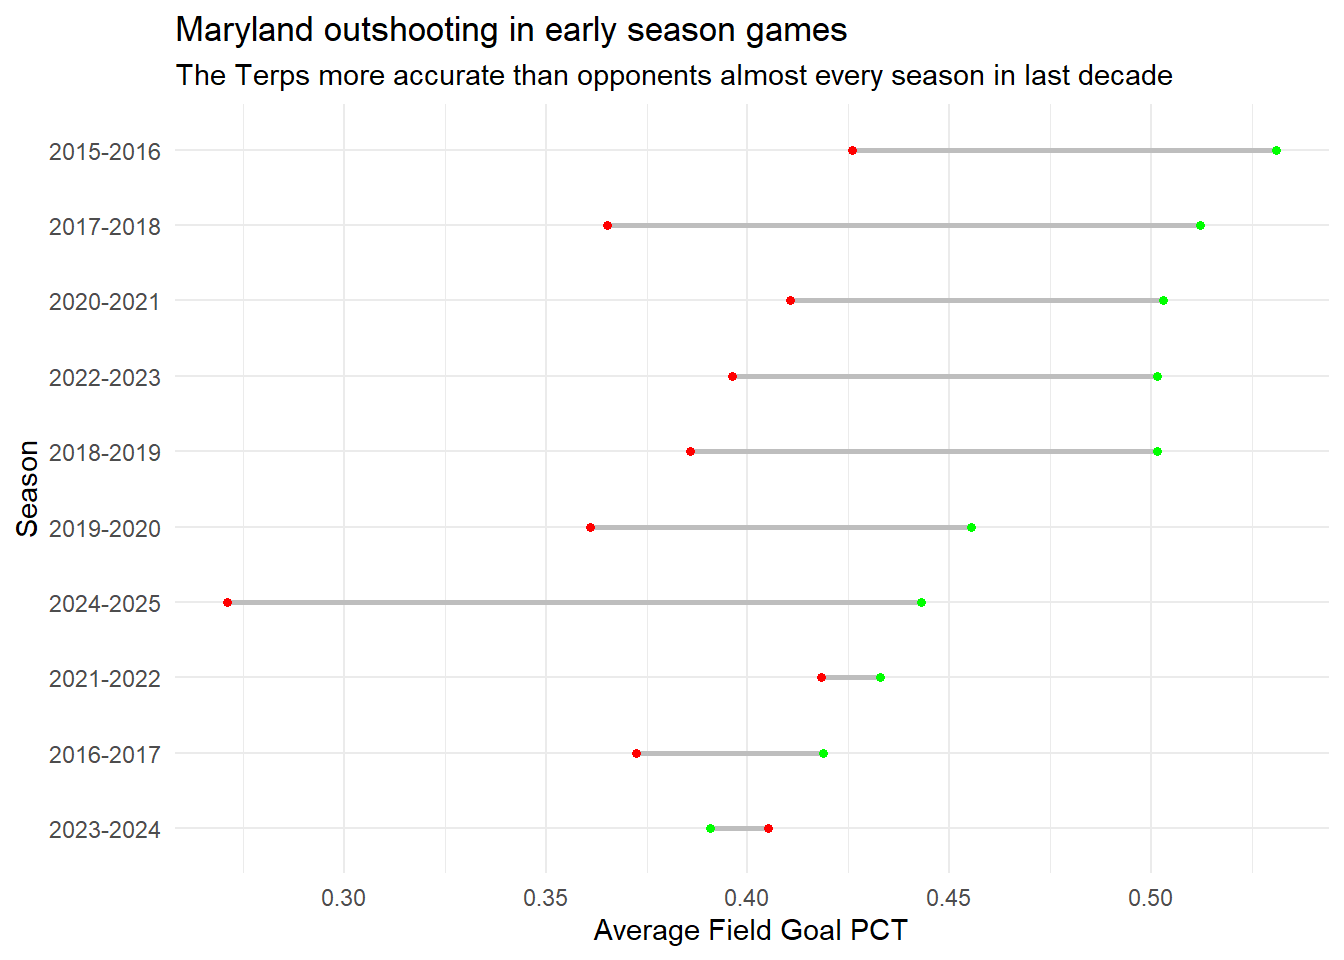
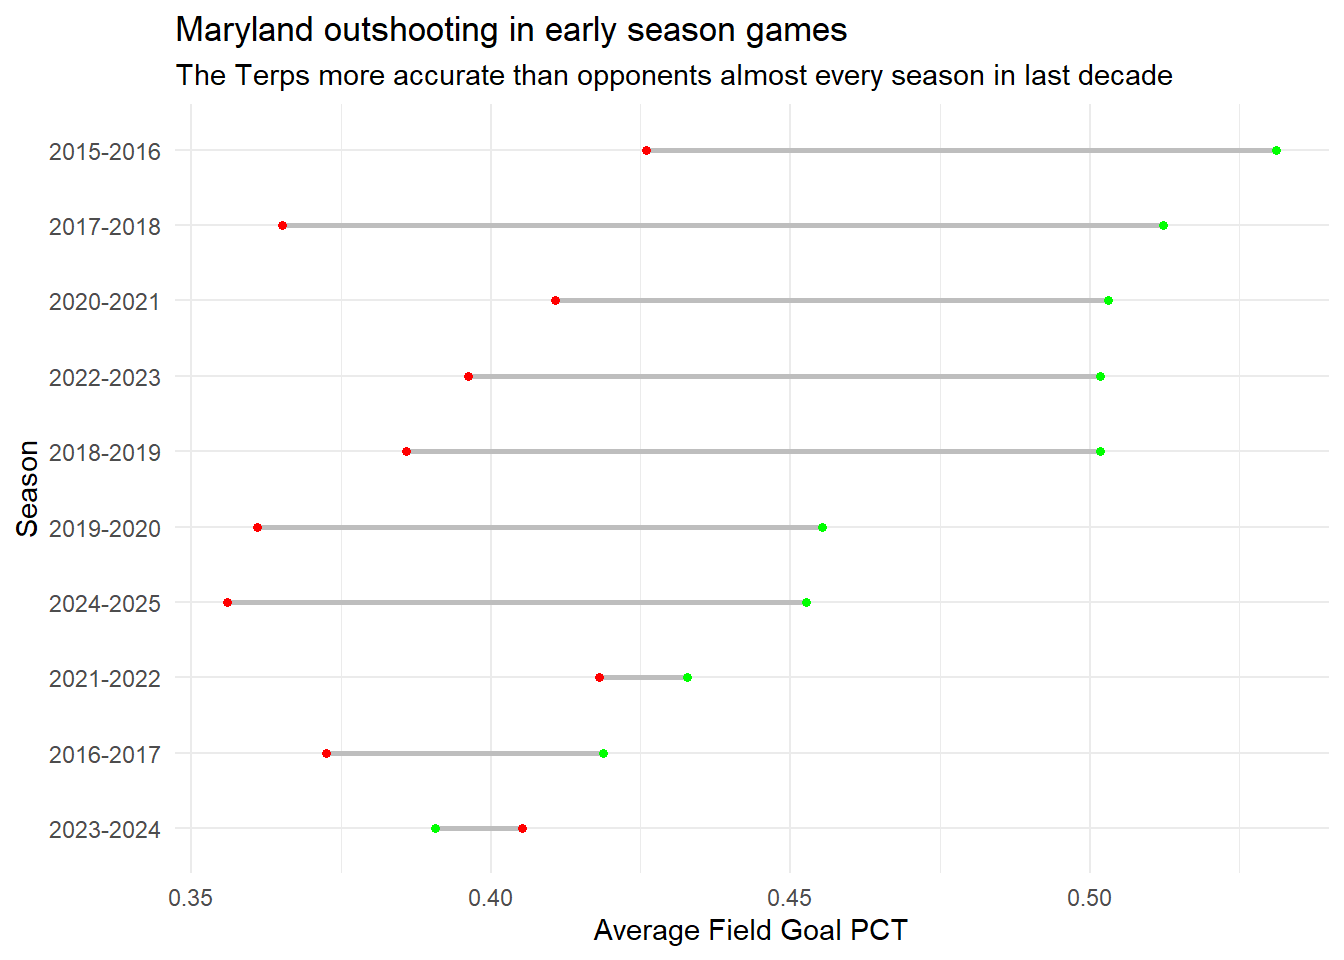
update blog

diff --git a/docs/posts/early-basketball-season/index.html b/docs/posts/early-basketball-season/index.html
@@ -7,7 +7,7 @@
 <meta name="viewport" content="width=device-width, initial-scale=1.0, user-scalable=yes">
 
 <meta name="author" content="Marwa Barakat">
-<meta name="dcterms.date" content="2024-11-08">
+<meta name="dcterms.date" content="2024-11-12">
 
 <title>How does the Terps season opener compare to previous seasons? – Marwa’s Sports Data Blog</title>
 <style>
@@ -166,7 +166,7 @@ pre > code.sourceCode > span > a:first-child::before { text-decoration: underlin
       <div>
       <div class="quarto-title-meta-heading">Published</div>
       <div class="quarto-title-meta-contents">
-        <p class="date">November 8, 2024</p>
+        <p class="date">November 12, 2024</p>
       </div>
     </div>
     
@@ -186,8 +186,8 @@ pre > code.sourceCode > span > a:first-child::before { text-decoration: underlin
 
 
 <p>With Maryland basketball’s winning season opener earlier this week, the Terps are off to a great start. But was it luck or does the team usually start seasons on the right foot?</p>
-<p>By comparing the team’s first six games of every season in the last decade, we found that the team have had a higher average field goal accuracy than their opponents almost every season.</p>
-<p>Although this week’s game saw a field goal percentage of just under 45 percent, the team reached higher most other seasons.</p>
+<p>By comparing the team’s first six games of every season in the last decade to this year’s first three, we found that the team have had a higher average field goal accuracy than their opponents almost every season.</p>
+<p>Although this season’s games saw a field goal percentage of just over 45 percent, the team reached higher most other seasons.</p>
 <p>Their best season start was about a decade ago in 2015 where the team had an average field goal percentage over 50 percent, indicating great shooting accuracy.</p>
 <p>Unfortunately for the Terps, their worst season start was just last year – the one season when their opponents made more of their shots.</p>
 <p>As the season gets underway, will Maryland return to old glory or will they find themselves falling behind early?</p>
@@ -213,32 +213,35 @@ pre > code.sourceCode > span > a:first-child::before { text-decoration: underlin
 <summary>Code</summary>
 <div class="sourceCode cell-code" id="cb6"><pre class="sourceCode r code-with-copy"><code class="sourceCode r"><span id="cb6-1"><a href="#cb6-1" aria-hidden="true" tabindex="-1"></a><span class="fu">suppressWarnings</span>(<span class="fu">suppressMessages</span>(logs <span class="ot">&lt;-</span> <span class="fu">read_csv</span>(<span class="st">"https://raw.githubusercontent.com/dwillis/dwillis.github.io/main/docs/sports-data-files/cbblogs1525.csv"</span>)))</span>
 <span id="cb6-2"><a href="#cb6-2" aria-hidden="true" tabindex="-1"></a></span>
-<span id="cb6-3"><a href="#cb6-3" aria-hidden="true" tabindex="-1"></a>md_early <span class="ot">&lt;-</span> logs <span class="sc">|&gt;</span></span>
-<span id="cb6-4"><a href="#cb6-4" aria-hidden="true" tabindex="-1"></a>  <span class="fu">filter</span>(Team<span class="sc">==</span><span class="st">'Maryland'</span>) <span class="sc">|&gt;</span></span>
-<span id="cb6-5"><a href="#cb6-5" aria-hidden="true" tabindex="-1"></a>  <span class="fu">filter</span>(Game<span class="sc">&lt;=</span><span class="dv">6</span>) </span>
-<span id="cb6-6"><a href="#cb6-6" aria-hidden="true" tabindex="-1"></a></span>
-<span id="cb6-7"><a href="#cb6-7" aria-hidden="true" tabindex="-1"></a>md_early <span class="ot">&lt;-</span> md_early <span class="sc">|&gt;</span></span>
-<span id="cb6-8"><a href="#cb6-8" aria-hidden="true" tabindex="-1"></a>  <span class="fu">group_by</span>(Season) <span class="sc">|&gt;</span></span>
-<span id="cb6-9"><a href="#cb6-9" aria-hidden="true" tabindex="-1"></a>  <span class="fu">summarise</span>(</span>
-<span id="cb6-10"><a href="#cb6-10" aria-hidden="true" tabindex="-1"></a>    <span class="at">mean_team =</span> <span class="fu">mean</span>(TeamFGPCT),</span>
-<span id="cb6-11"><a href="#cb6-11" aria-hidden="true" tabindex="-1"></a>    <span class="at">mean_opp =</span> <span class="fu">mean</span>(OpponentFGPCT)</span>
-<span id="cb6-12"><a href="#cb6-12" aria-hidden="true" tabindex="-1"></a>  )</span>
-<span id="cb6-13"><a href="#cb6-13" aria-hidden="true" tabindex="-1"></a></span>
-<span id="cb6-14"><a href="#cb6-14" aria-hidden="true" tabindex="-1"></a><span class="fu">ggplot</span>() <span class="sc">+</span> </span>
-<span id="cb6-15"><a href="#cb6-15" aria-hidden="true" tabindex="-1"></a>  <span class="fu">geom_dumbbell</span>(</span>
-<span id="cb6-16"><a href="#cb6-16" aria-hidden="true" tabindex="-1"></a>    <span class="at">data=</span>md_early, </span>
-<span id="cb6-17"><a href="#cb6-17" aria-hidden="true" tabindex="-1"></a>    <span class="fu">aes</span>(<span class="at">y=</span><span class="fu">reorder</span>(Season, mean_team), <span class="at">x=</span>mean_team, <span class="at">xend=</span>mean_opp),</span>
-<span id="cb6-18"><a href="#cb6-18" aria-hidden="true" tabindex="-1"></a>    <span class="at">size =</span> <span class="dv">1</span>,</span>
-<span id="cb6-19"><a href="#cb6-19" aria-hidden="true" tabindex="-1"></a>    <span class="at">color =</span> <span class="st">"grey"</span>,</span>
-<span id="cb6-20"><a href="#cb6-20" aria-hidden="true" tabindex="-1"></a>    <span class="at">colour_x =</span> <span class="st">"green"</span>,</span>
-<span id="cb6-21"><a href="#cb6-21" aria-hidden="true" tabindex="-1"></a>    <span class="at">colour_xend =</span> <span class="st">"red"</span>) <span class="sc">+</span> </span>
-<span id="cb6-22"><a href="#cb6-22" aria-hidden="true" tabindex="-1"></a>  <span class="fu">theme_minimal</span>() <span class="sc">+</span></span>
-<span id="cb6-23"><a href="#cb6-23" aria-hidden="true" tabindex="-1"></a>  <span class="fu">labs</span>(</span>
-<span id="cb6-24"><a href="#cb6-24" aria-hidden="true" tabindex="-1"></a>    <span class="at">title =</span> <span class="st">"Maryland outshooting in early season games"</span>,</span>
-<span id="cb6-25"><a href="#cb6-25" aria-hidden="true" tabindex="-1"></a>    <span class="at">subtitle =</span> <span class="st">"The Terps more accurate than opponents almost every season in last decade"</span>,</span>
-<span id="cb6-26"><a href="#cb6-26" aria-hidden="true" tabindex="-1"></a>    <span class="at">y =</span> <span class="st">"Season"</span>,</span>
-<span id="cb6-27"><a href="#cb6-27" aria-hidden="true" tabindex="-1"></a>    <span class="at">x =</span> <span class="st">"Average Field Goal PCT"</span></span>
-<span id="cb6-28"><a href="#cb6-28" aria-hidden="true" tabindex="-1"></a>  )</span></code><button title="Copy to Clipboard" class="code-copy-button"><i class="bi"></i></button></pre></div>
+<span id="cb6-3"><a href="#cb6-3" aria-hidden="true" tabindex="-1"></a>md <span class="ot">&lt;-</span> logs <span class="sc">|&gt;</span></span>
+<span id="cb6-4"><a href="#cb6-4" aria-hidden="true" tabindex="-1"></a>  <span class="fu">filter</span>(Team<span class="sc">==</span><span class="st">'Maryland'</span>)</span>
+<span id="cb6-5"><a href="#cb6-5" aria-hidden="true" tabindex="-1"></a></span>
+<span id="cb6-6"><a href="#cb6-6" aria-hidden="true" tabindex="-1"></a>md_early <span class="ot">&lt;-</span> logs <span class="sc">|&gt;</span></span>
+<span id="cb6-7"><a href="#cb6-7" aria-hidden="true" tabindex="-1"></a>  <span class="fu">filter</span>(Team<span class="sc">==</span><span class="st">'Maryland'</span>) <span class="sc">|&gt;</span></span>
+<span id="cb6-8"><a href="#cb6-8" aria-hidden="true" tabindex="-1"></a>  <span class="fu">filter</span>(Game<span class="sc">&lt;=</span><span class="dv">6</span>) </span>
+<span id="cb6-9"><a href="#cb6-9" aria-hidden="true" tabindex="-1"></a></span>
+<span id="cb6-10"><a href="#cb6-10" aria-hidden="true" tabindex="-1"></a>md_early <span class="ot">&lt;-</span> md_early <span class="sc">|&gt;</span></span>
+<span id="cb6-11"><a href="#cb6-11" aria-hidden="true" tabindex="-1"></a>  <span class="fu">group_by</span>(Season) <span class="sc">|&gt;</span></span>
+<span id="cb6-12"><a href="#cb6-12" aria-hidden="true" tabindex="-1"></a>  <span class="fu">summarise</span>(</span>
+<span id="cb6-13"><a href="#cb6-13" aria-hidden="true" tabindex="-1"></a>    <span class="at">mean_team =</span> <span class="fu">mean</span>(TeamFGPCT),</span>
+<span id="cb6-14"><a href="#cb6-14" aria-hidden="true" tabindex="-1"></a>    <span class="at">mean_opp =</span> <span class="fu">mean</span>(OpponentFGPCT)</span>
+<span id="cb6-15"><a href="#cb6-15" aria-hidden="true" tabindex="-1"></a>  )</span>
+<span id="cb6-16"><a href="#cb6-16" aria-hidden="true" tabindex="-1"></a></span>
+<span id="cb6-17"><a href="#cb6-17" aria-hidden="true" tabindex="-1"></a><span class="fu">ggplot</span>() <span class="sc">+</span> </span>
+<span id="cb6-18"><a href="#cb6-18" aria-hidden="true" tabindex="-1"></a>  <span class="fu">geom_dumbbell</span>(</span>
+<span id="cb6-19"><a href="#cb6-19" aria-hidden="true" tabindex="-1"></a>    <span class="at">data=</span>md_early, </span>
+<span id="cb6-20"><a href="#cb6-20" aria-hidden="true" tabindex="-1"></a>    <span class="fu">aes</span>(<span class="at">y=</span><span class="fu">reorder</span>(Season, mean_team), <span class="at">x=</span>mean_team, <span class="at">xend=</span>mean_opp),</span>
+<span id="cb6-21"><a href="#cb6-21" aria-hidden="true" tabindex="-1"></a>    <span class="at">size =</span> <span class="dv">1</span>,</span>
+<span id="cb6-22"><a href="#cb6-22" aria-hidden="true" tabindex="-1"></a>    <span class="at">color =</span> <span class="st">"grey"</span>,</span>
+<span id="cb6-23"><a href="#cb6-23" aria-hidden="true" tabindex="-1"></a>    <span class="at">colour_x =</span> <span class="st">"green"</span>,</span>
+<span id="cb6-24"><a href="#cb6-24" aria-hidden="true" tabindex="-1"></a>    <span class="at">colour_xend =</span> <span class="st">"red"</span>) <span class="sc">+</span> </span>
+<span id="cb6-25"><a href="#cb6-25" aria-hidden="true" tabindex="-1"></a>  <span class="fu">theme_minimal</span>() <span class="sc">+</span></span>
+<span id="cb6-26"><a href="#cb6-26" aria-hidden="true" tabindex="-1"></a>  <span class="fu">labs</span>(</span>
+<span id="cb6-27"><a href="#cb6-27" aria-hidden="true" tabindex="-1"></a>    <span class="at">title =</span> <span class="st">"Maryland outshooting in early season games"</span>,</span>
+<span id="cb6-28"><a href="#cb6-28" aria-hidden="true" tabindex="-1"></a>    <span class="at">subtitle =</span> <span class="st">"The Terps more accurate than opponents almost every season in last decade"</span>,</span>
+<span id="cb6-29"><a href="#cb6-29" aria-hidden="true" tabindex="-1"></a>    <span class="at">y =</span> <span class="st">"Season"</span>,</span>
+<span id="cb6-30"><a href="#cb6-30" aria-hidden="true" tabindex="-1"></a>    <span class="at">x =</span> <span class="st">"Average Field Goal PCT"</span></span>
+<span id="cb6-31"><a href="#cb6-31" aria-hidden="true" tabindex="-1"></a>  )</span></code><button title="Copy to Clipboard" class="code-copy-button"><i class="bi"></i></button></pre></div>
 </details>
 <div class="cell-output cell-output-stderr">
 <pre><code>Warning: Using the `size` aesthetic with geom_segment was deprecated in ggplot2 3.4.0.

diff --git a/docs/index.html b/docs/index.html
@@ -205,7 +205,7 @@ window.Quarto = {
 
 <div class="quarto-listing quarto-listing-container-default" id="listing-listing">
 <div class="list quarto-listing-default">
-<div class="quarto-post image-right" data-index="0" data-listing-date-sort="1731042000000" data-listing-file-modified-sort="1731094404157" data-listing-date-modified-sort="NaN" data-listing-reading-time-sort="2" data-listing-word-count-sort="276">
+<div class="quarto-post image-right" data-index="0" data-listing-date-sort="1731387600000" data-listing-file-modified-sort="1731432338451" data-listing-date-modified-sort="NaN" data-listing-reading-time-sort="2" data-listing-word-count-sort="286">
 <div class="thumbnail">
 <p><a href="./posts/early-basketball-season/index.html" class="no-external"></a></p><a href="./posts/early-basketball-season/index.html" class="no-external">
 <p class="card-img-top"><img src="posts\early-basketball-season\index_files\figure-html\unnamed-chunk-1-1.png"  class="thumbnail-image card-img"/></p>
@@ -225,7 +225,7 @@ window.Quarto = {
 <div class="metadata">
 <a href="./posts/early-basketball-season/index.html" class="no-external">
 <div class="listing-date">
-Nov 8, 2024
+Nov 12, 2024
 </div>
 <div class="listing-author">
 Marwa Barakat
